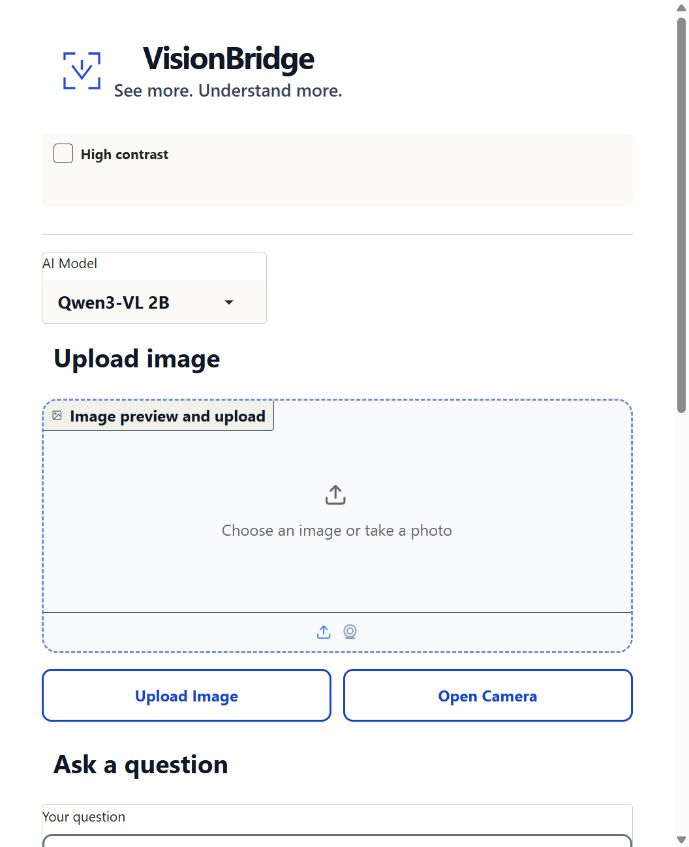
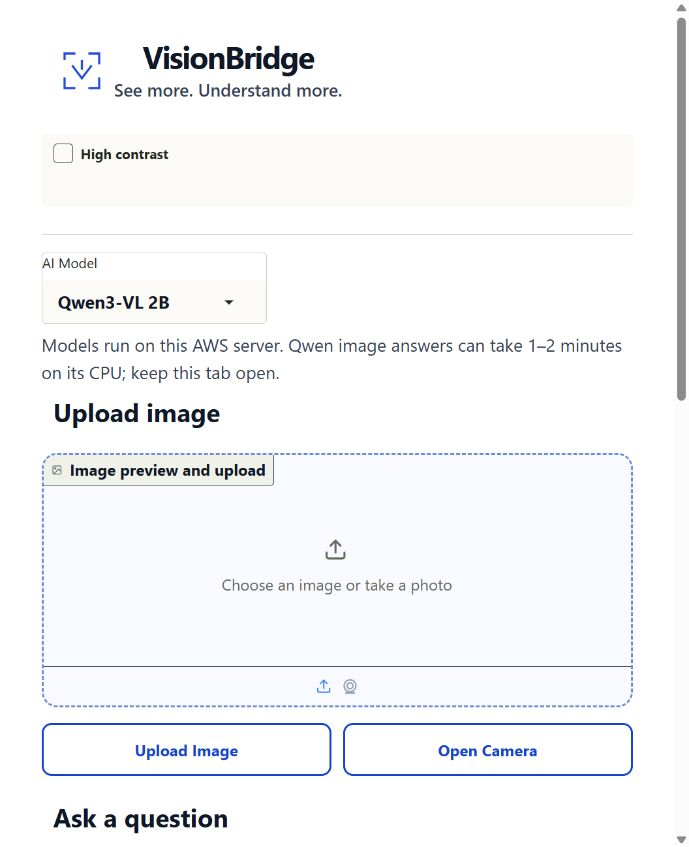
Document verified MAI cloud deployment [skip ci]

diff --git a/mlops/aws/DEPLOYMENT.md b/mlops/aws/DEPLOYMENT.md
@@ -7,7 +7,7 @@ All regional resources are in `ap-southeast-2` under AWS CLI profile `mlops-visi
 | Purpose | Resource |
 |---|---|
 | DVC object storage | Private, encrypted S3 bucket `visionbridge-mlops-20261026-1a167b3`, prefix `dvc/` |
-| CPU API host | EC2 `i-0e44bd4d11fa9f312`, `m7i-flex.large` |
+| Cloud app host | EC2 `i-0e44bd4d11fa9f312`, `m7i-flex.large`, 50 GiB encrypted EBS |
 | Reproducible host configuration | Launch template `visionbridge-mlops-demo`, version 2 (default) |
 | Public demo | [https://15-135-22-228.sslip.io/](https://15-135-22-228.sslip.io/) through Caddy HTTPS proxy |
 | Stable address | Elastic IP `15.135.22.228`, allocation `eipalloc-08bb7769aa2b1beda` |
@@ -15,10 +15,15 @@ All regional resources are in `ap-southeast-2` under AWS CLI profile `mlops-visi
 | Temporary AWS credentials | Instance profile `VisionBridgeMLOpsEC2Profile` with scoped S3 read, CloudWatch log write, and SSM permissions |
 | Application logs | `/visionbridge/mlops/api`, seven day retention |
 | Inference monitoring | CloudWatch namespace `VisionBridge/MLOps`: `PredictionLatencySeconds`, `PredictionErrors`, and alarm `VisionBridgePredictionErrors` |
+| Qwen monitoring | The same CloudWatch metrics with Model dimension `qwen3-vl:2b-instruct-q4_K_M`; alarm `VisionBridgeQwenPredictionErrors` |
 | CI image | `ghcr.io/vkmstry1611/visionbridge-mlops:<full-git-sha>` |
+| MAI workspace image | `ghcr.io/vkmstry1611/visionbridge-workspace:<full-git-sha>` |
+| Cloud model | Ollama `qwen3-vl:2b-instruct-q4_K_M`, model ID `afc393e3572c`, stored in an EC2 Docker volume |
 | CI/CD | [VisionBridge MLOps GitHub Actions](https://github.com/Vkmstry1611/mai-project/actions/workflows/mlops.yml) |
 
 The [AWS Free Plan managed policy](https://docs.aws.amazon.com/accounts/latest/reference/scps-and-rcps-for-projects.html) blocks ECR repository creation and IAM OIDC providers. GitHub Actions builds the image and GitHub Container Registry holds it. An EC2 self-hosted runner deploys it using the workflow's short-lived GitHub token. The container pulls the selected model from S3 using temporary instance-role credentials. No static AWS keys are stored in GitHub.
+
+The public root page is the MAI branch VisionBridge workspace, adapted for EC2. Qwen3-VL 2B runs inside Ollama on that host, and the DVC-selected BLIP v2 runs in a second local container. The workspace's Whisper tiny.en transcription and Linux speech synthesis also run on EC2. Ollama, the workspace, and the BLIP API listen only on instance loopback; Caddy exposes HTTPS. The private frozen Phase 4 OCR/gating bundle is not deployed, so Qwen reading answers do not include independently verified OCR boxes.
 
 ## Reproduce or inspect
 
@@ -32,7 +37,11 @@ dvc metrics show
 
 The data remote status was `Cache and remote 'aws' are in sync.` Both BLIP candidates scored 10/13 on the small manual demo set; this is an engineering demonstration, not an official VizWiz evaluation.
 
-## Verified public run on 2026-10-27
+## Verified MAI cloud workspace on 2026-10-27
+
+[GitHub Actions run 40555248709](https://github.com/Vkmstry1611/mai-project/actions/runs/40555248709) completed `validate`, `publish`, and `deploy` successfully for commit `1d26436c81154527cc59b3ee8318b5f323a7305e`. The public HTTPS root serves the MAI Gradio workspace with image upload, camera, question, model selector, conversation, accessibility, and voice controls. An external Gradio `/analyze` request with `sample/stop_sign.png` returned “The word on the sign is STOP.” from `qwen3-vl:2b-instruct-q4_K_M` on AWS EC2; the measured workspace callback took 86.8 seconds on the CPU host. After the final deployment, switching to BLIP v2 and repeating the question returned `stop` plus a generated WAV file. CloudWatch received model-dimensioned Qwen latency and error metrics. The EC2 Ollama volume reports model ID `afc393e3572c`. The 50 GiB EBS root volume has room for the Ollama runtime and model. Server-side Whisper tiny.en produced a transcript from synthetic speech, but its words were inaccurate; real microphone transcription quality still needs a user check.
+
+## Earlier BLIP API run on 2026-10-27
 
 [GitHub Actions run 6](https://github.com/Vkmstry1611/mai-project/actions/runs/40543121064) completed `validate`, `publish`, and `deploy` successfully for commit `21ebd9f80e5195316959e6abff393349981bd853`. The public HTTPS `/health` returned HTTP 200 and reported `blip_vizwiz_v2`. An external HTTPS `POST /predict` using `sample/stop_sign.png` and “What word is on the sign?” returned `stop` in 1.116 seconds. The page at the public URL returned HTTP 200. Caddy handles TLS and forwards to the API on instance localhost; the image and model are pulled separately from GHCR and private S3. The hostname is provided by third-party sslip.io DNS, so confirm it resolves before a presentation.
 
@@ -66,14 +75,14 @@ In another terminal, send JSON to `http://127.0.0.1:8000/predict` with `question
 ## Demo and rollback
 
 1. Show `dvc.yaml`, `dvc.lock`, candidate metric files, and `mlops/registry/selection.json`.
-2. Show the successful run 6 `validate`, `publish`, and `deploy` jobs, the GHCR image tag, the private S3 remote, and the EC2 role/security group.
-3. Open the public HTTPS demo, upload `sample/stop_sign.png`, ask “What word is on the sign?”, and show `stop`. Show `/health`, `/metrics`, CloudWatch logs and the latency/error metrics.
+2. Show the successful MAI workspace run `40555248709` `validate`, `publish`, and `deploy` jobs, the GHCR image tags, the private S3 remote, and the EC2 role/security group.
+3. Open the public MAI workspace, upload `sample/stop_sign.png`, ask “What word is on the sign?”, and show the Qwen answer. Switch to BLIP v2 and repeat. Show `/health`, `/metrics`, CloudWatch logs and both model metrics.
 4. Explain that Git versions source, DVC versions large inputs and champion output, GHCR versions the API image, and the Git SHA pins one deployment.
 5. For a manual rollback, rerun `bash mlops/deploy-runner.sh Vkmstry1611 <previous-successful-git-sha>` on the EC2 runner with GHCR login available. The deployment script also restores the prior local image on a failed health check.
 
 ## Credits and shutdown
 
-The AWS project showed an active Free Plan and `$98.57` remaining credits when checked on 2026-10-27. Usage reporting can lag. EC2, 30 GiB EBS, the Elastic IP, S3 objects/requests, and logs consume credits. Stop the instance between demos to limit EC2 usage, and start it before showing the live API; the runner and container resume automatically. Stopping does not remove EBS, S3, or allocated public IPv4 charges. The public link is unavailable while the instance is stopped.
+The AWS project showed an active Free Plan and `$98.57` remaining credits when checked on 2026-10-27. Usage reporting can lag. EC2, 50 GiB EBS, the Elastic IP, S3 objects/requests, and logs consume credits. Stop the instance between demos to limit EC2 usage, and start it before showing the live app; the runner and containers resume automatically. Stopping does not remove EBS, S3, or allocated public IPv4 charges. The public link is unavailable while the instance is stopped.
 
 ```powershell
 aws ec2 stop-instances --instance-ids i-0e44bd4d11fa9f312 --region ap-southeast-2 --profile mlops-visionbridge

diff --git a/mlops/PRESENTATION.md b/mlops/PRESENTATION.md
@@ -1,11 +1,11 @@
 # Five minute MLOps presentation
 
-1. **Goal and scope (30 seconds).** VisionBridge is an accessible visual question answering project. This deployment serves its selected BLIP VQA checkpoint through a CPU API. The frozen research dashboard includes additional OCR and voice features that this API does not serve.
+1. **Goal and scope (30 seconds).** VisionBridge is an accessible visual question answering project. The public page is the MAI branch workspace, with image upload/camera, follow-up questions, voice controls, and two cloud model choices. Its default is a lighter Qwen3-VL 2B on EC2; the DVC-selected BLIP v2 is also on EC2. The private frozen Phase 4 OCR/gating bundle is not part of this CPU deployment.
 2. **Reproducible ML pipeline (60 seconds).** Git versions code. DVC versions four attributed demo images, the BLIP v2 checkpoint, preprocessing, two evaluation stages, model selection, and the champion artifact. Show `dvc.yaml`, `dvc.lock`, `dvc status -c`, and the private S3 remote. Both checkpoints scored 10/13 on this small manually authored demo set. This is a pipeline test, not an official VizWiz result.
 3. **Tracking and selection (45 seconds).** Show `mlops/experiments/*.json` and `mlops/registry/selection.json`. The candidates use the same input hashes. The declared rule chooses highest exact match, then v2 on a tie. The champion manifest includes the model SHA256 to catch accidental artifact swaps.
-4. **CI/CD and deployment (60 seconds).** Show the [successful GitHub Actions run](https://github.com/Vkmstry1611/mai-project/actions/runs/40543121064): validate, publish, deploy. GitHub Container Registry stores the immutable image tag. EC2 pulls it, then DVC pulls the pinned model from private S3 using temporary instance credentials. A Caddy proxy serves the public HTTPS demo; Systems Manager provides private operator access. The AWS Free Plan blocks ECR and GitHub OIDC creation in this project, so GHCR and the narrow EC2 runner fill those roles.
-5. **Live proof and operations (60 seconds).** Open [the public demo](https://15-135-22-228.sslip.io/), upload `sample/stop_sign.png`, ask “What word is on the sign?”, and show the answer `stop`. The public `/health` and `/predict` checks passed on 2026-10-27. Show `/metrics`, the CloudWatch prediction event, latency metric, and error alarm. Explain the seven day log retention and previous-image rollback.
-6. **Cost and limits (25 seconds).** The demo runs on one `m7i-flex.large` and a 30 GiB encrypted EBS volume in `ap-southeast-2`; stop it between presentations. Current credits can lag actual usage. The manual 13-question score is too small for a quality claim; official VizWiz results are documented separately in `submission/RESULTS_AND_PROVENANCE.md`.
+4. **CI/CD and deployment (60 seconds).** Show the [successful MAI workspace deployment](https://github.com/Vkmstry1611/mai-project/actions/runs/40555248709): validate, publish both images, deploy. GitHub Container Registry stores SHA-tagged images. EC2 pulls them; DVC pulls BLIP v2 from private S3; Ollama holds Qwen3-VL 2B in a persistent EC2 volume. Caddy serves the HTTPS workspace; Systems Manager provides operator access. The Free Plan blocks ECR and GitHub OIDC creation here, so GHCR and the EC2 runner fill those roles.
+5. **Live proof and operations (60 seconds).** Open [the public MAI workspace](https://15-135-22-228.sslip.io/), upload `sample/stop_sign.png`, ask “What word is on the sign?”, and show Qwen answering “STOP.” This takes roughly 1–2 minutes on the CPU instance. Switch to BLIP v2 and repeat. Show both CloudWatch model metrics, error alarms, and the `/health` endpoint. Explain the seven day log retention and deployment rollback.
+6. **Cost and limits (25 seconds).** The workspace runs on one `m7i-flex.large` and a 50 GiB encrypted EBS volume in `ap-southeast-2`; stop it between presentations. Qwen is a generated visual answer, not verified OCR evidence. The manual 13-question BLIP score is too small for a quality claim; official VizWiz results are documented separately in `submission/RESULTS_AND_PROVENANCE.md`.
 
 ## Viva answers
 
@@ -13,10 +13,10 @@
 |---|---|
 | Why Git and DVC? | Git tracks code and small metadata; DVC hashes and remotes large datasets and model files. |
 | What makes a run reproducible? | Locked stage dependencies, data/model hashes, pinned package versions, a container image tagged with the Git SHA, and a fixed selection rule. |
-| Why two models? | They are two existing BLIP checkpoints evaluated on identical demo inputs, with separate metric files and a declared tie rule. |
+| Why two models? | The DVC experiment compared two BLIP checkpoints and selected v2. The public workspace additionally offers a smaller cloud Qwen vision model for broader questions; its generated answers have no official VizWiz score here. |
 | Is 10/13 the project's accuracy? | No. It is a tiny, manually authored serving demonstration; official VizWiz evaluation is separate. |
-| How is the model fetched securely? | DVC reads the private S3 remote through the EC2 instance profile and IMDSv2 temporary credentials. |
+| How are the models fetched? | DVC reads the private BLIP artifact from S3 through the EC2 instance profile. Ollama pulls Qwen3-VL 2B into a persistent volume on the same EC2 host. No model inference depends on the laptop. |
 | How does CI/CD work? | A branch push tests code, builds and pushes a SHA-tagged GHCR image, then the EC2 runner pulls and health-checks it. |
-| How is inference monitored? | The API records request count, errors and latency; CloudWatch stores structured events, emits latency/error metrics, and alarms on errors. |
+| How is inference monitored? | The BLIP API records requests, errors and latency. The Qwen workspace emits CloudWatch latency/error metrics with a Model dimension. Each model has an error alarm. |
 | What if deployment fails? | The deploy script tests `/health`, restores the prior local image when possible, and fails the GitHub job visibly. |
-| How is cost controlled? | One CPU instance, no load balancer or managed endpoint, seven day logs, and stop/start between demos. The Elastic IP can still incur charges while the instance is stopped. |
+| How is cost controlled? | One CPU instance, no load balancer or managed endpoint, seven day logs, and stop/start between demos. The 50 GiB disk and Elastic IP can still incur charges while the instance is stopped. |

diff --git a/ss/README.md b/ss/README.md
@@ -4,4 +4,4 @@ Save dated screenshots here as the AWS and CI/CD steps are completed. Keep proje
 
 Suggested evidence: DVC pipeline graph/status, comparison metrics, private S3 remote, GHCR image, successful GitHub Actions workflow, EC2/SSM health check, prediction response, CloudWatch logs, and credit balance. Each screenshot should show an actual successful state; do not substitute diagrams for runtime evidence.
 
-Captured: `2026-10-26-github-ci-running.jpg` and `2026-10-26-github-ci-success.jpg` show the first GitHub Actions test/build run. The later [end-to-end run](https://github.com/Vkmstry1611/mai-project/actions/runs/40368682335) also passed deployment; its exact CLI verification results are recorded in `mlops/aws/DEPLOYMENT.md`.
+Captured: `2026-10-26-github-ci-running.jpg` and `2026-10-26-github-ci-success.jpg` show the first GitHub Actions test/build run. `public-demo-2026-10-27.png` shows the first public BLIP page. `mai-cloud-workspace-2026-10-27.png` shows the deployed MAI frontend with Qwen selected. The [final MAI cloud deployment](https://github.com/Vkmstry1611/mai-project/actions/runs/40555248709) passed validation, publish, and deploy; exact model and callback verification is recorded in `mlops/aws/DEPLOYMENT.md`.
